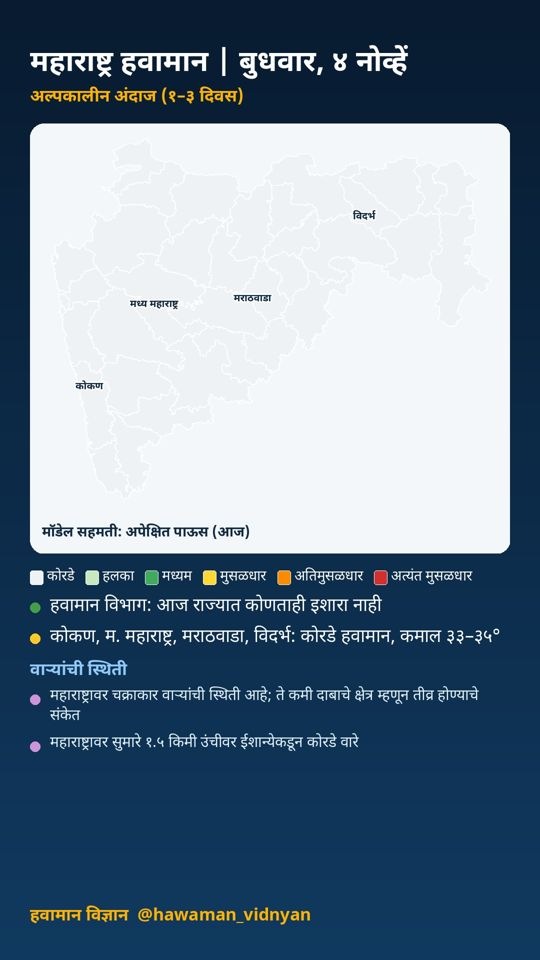
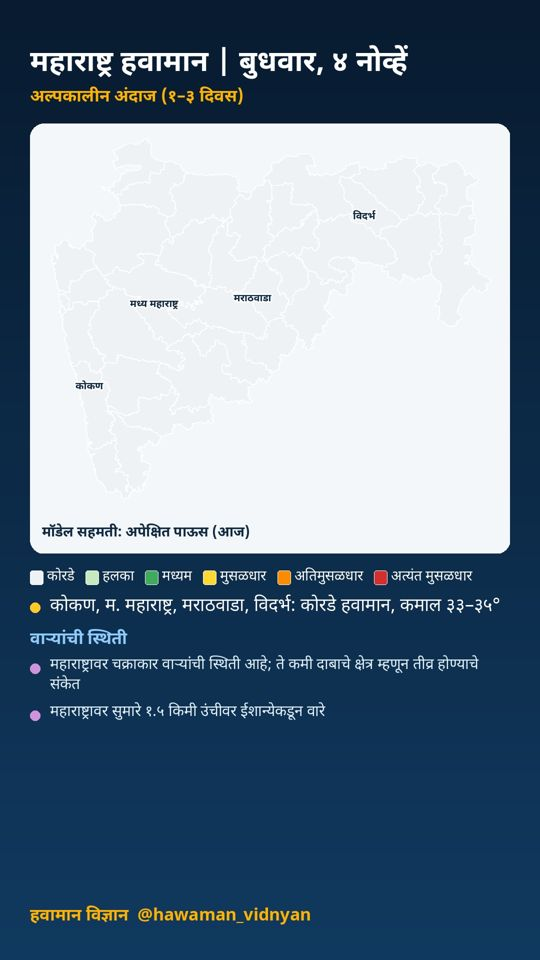
Alert 2026-11-04 (hawaman-vidnyan)

Changed region(s): [[0.0593, 0.5938, 0.9185, 0.7812]]

diff --git a/docs/alerts/2026-11-04-hawaman/index.html b/docs/alerts/2026-11-04-hawaman/index.html
@@ -12,11 +12,11 @@
     })();
   </script>
   <title data-mr="महाराष्ट्र हवामान | बुधवार, ४ नोव्हें — हवामान इशारा">महाराष्ट्र हवामान | बुधवार, ४ नोव्हें — Weather alert</title>
-  <meta name="description" content="Green alert: महाराष्ट्र हवामान | बुधवार, ४ नोव्हें (4 November 2026)">
+  <meta name="description" content="Information analysis: महाराष्ट्र हवामान | बुधवार, ४ नोव्हें (4 November 2026)">
   <link rel="preconnect" href="https://fonts.googleapis.com">
   <link rel="preconnect" href="https://fonts.gstatic.com" crossorigin>
   <link href="https://fonts.googleapis.com/css2?family=Mukta:wght@400;500;600;700&family=Noto+Serif+Devanagari:wght@600;700&display=swap" rel="stylesheet">
-  <link rel="stylesheet" href="../../static/css/style.css?v=357c6d3d">
+  <link rel="stylesheet" href="../../static/css/style.css?v=7264bac0">
 </head>
 <body>
   <header class="site-header">
@@ -45,8 +45,8 @@
   <main class="wrap main">
 <article class="article">
   <p class="muted"><a href="../../alerts/index.html"><span class="l-en">← All alerts</span><span class="l-mr" lang="mr">← सर्व इशारे</span></a></p>
-  <div class="alert-banner level-green">
-    <span class="badge badge-green"><span class="l-en">Green alert · No warning</span><span class="l-mr" lang="mr">हिरवा इशारा · कोणताही इशारा नाही</span></span>
+  <div class="alert-banner level-info">
+    <span class="badge badge-info"><span class="l-en">Information · analysis</span><span class="l-mr" lang="mr">माहितीपर विश्लेषण</span></span>
     <h1>महाराष्ट्र हवामान | बुधवार, ४ नोव्हें</h1>
     <dl class="alert-facts">
       <div><dt><span class="l-en">Date</span><span class="l-mr" lang="mr">दिनांक</span></dt><dd><time datetime="2026-11-04"><span class="l-en">Wednesday, 4 November 2026</span><span class="l-mr" lang="mr">बुधवार, ४ नोव्हेंबर २०२६</span></time></dd></div>
@@ -100,35 +100,31 @@
     </div>
 </details>  </section>
   <p class="lang-note l-en">This page is written in Marathi.</p><div class="prose" lang="mr"><p><strong>अल्पकालीन विश्लेषण (१–३ दिवस)</strong> · वैयक्तिक विश्लेषणावर आधारित</p>
-<p>✅ हवामान विभाग: आज राज्यात कोणताही इशारा नाही<br />
-☀ कोकण: कोरडे हवामान<br />
+<p>☀ कोकण: कोरडे हवामान<br />
 ☀ म. महाराष्ट्र: कोरडे हवामान<br />
 ☀ मराठवाडा: कोरडे हवामान<br />
 ☀ विदर्भ: कोरडे हवामान<br />
-🌀 महाराष्ट्रावर चक्राकार वाऱ्यांची स्थिती आहे</p>
+🌀 महाराष्ट्रावर चक्राकार वाऱ्यांची स्थिती आहे<br />
+🛰 उपग्रह: राज्यावर आकाश बहुतांश निरभ्र</p>
 <p><img src="../../static/images/alerts/2026-11-04/1_card.jpg" alt="अल्पकालीन विश्लेषण (१–३ दिवस)" /></p>
 <h3>हवामानामागचे कारण</h3>
 <p>🌀 वाऱ्यांची स्थिती व कारणमीमांसा:<br />
 • महाराष्ट्रावर चक्राकार वाऱ्यांची स्थिती आहे; ते कमी दाबाचे क्षेत्र म्हणून तीव्र होण्याचे संकेत. या प्रणालीमुळे राज्यात ढगाळ हवामान व पावसाची शक्यता वाढू शकते</p>
-<p>• आग्नेय अरबी समुद्रात ४ नोव्हें दरम्यान कमी दाबाचे क्षेत्र तयार होण्याचे संकेत; प्रणाली ईशान्येकडे (पूर्व-मध्य अरबी समुद्र) सरकण्याची शक्यता<br />
+<p>• आग्नेय अरबी समुद्रात चक्राकार वाऱ्यांची स्थिती आहे; ते कमी दाबाचे क्षेत्र म्हणून तीव्र होण्याचे संकेत; प्रणाली ईशान्येकडे (पूर्व-मध्य अरबी समुद्र) सरकण्याची शक्यता<br />
 • ईशान्य अरबी समुद्रात ६ नोव्हें दरम्यान चक्राकार वाऱ्यांची स्थिती निर्माण होण्याचे संकेत</p>
-<p>• महाराष्ट्रावर सुमारे १.५ किमी उंचीवर ईशान्येकडून कोरडे वारे; हवेच्या मधल्या थरात आर्द्रता फक्त ४२% असल्याने ढग फारसे तयार होत नाहीत<br />
+<p>• महाराष्ट्रावर सुमारे १.५ किमी उंचीवर ईशान्येकडून वारे<br />
 • पुढील काळात हवेच्या मधल्या थरातील बाष्प कमी होत आहे</p>
-<p>🏙 आज शहरांचे कमाल/किमान तापमान (हवामान विभाग):<br />
-मुंबई ३६/२३, रत्नागिरी ३६/२३, पुणे ३१/२०, नाशिक ३५/२०, कोल्हापूर ३३/२३, छ. ३३/२१, नागपूर ३३/१८</p>
 <p>📌 निरीक्षणे:<br />
-🌡 काल सर्वाधिक: मुंबई (कुलाबा) ३६.५°<br />
-❄ नीचांकी: महाबळेश्वर १७.४°<br />
-🛰 उपग्रह: राज्यावर आकाश बहुतांश निरभ्र (कोकण २%, मध्य महाराष्ट्र १%, मराठवाडा ०%, विदर्भ ११% ढगाच्छादन)</p>
+🛰 उपग्रह: राज्यावर आकाश बहुतांश निरभ्र (कोकण २%, मध्य महाराष्ट्र १%, मराठवाडा ०%, विदर्भ १०% ढगाच्छादन)</p>
 <p>ℹ स्रोत: भारतीय हवामान विभाग; युरोपियन (ECMWF), अमेरिकन (GFS), जर्मन (ICON) मॉडेल<br />
 ⚠ हे मॉडेल-आधारित विश्लेषण आहे. अधिकृत इशाऱ्यांसाठी भारतीय हवामान विभाग (IMD) व स्थानिक प्रशासनाच्या सूचना पाहा.</p>
 <p><img src="../../static/images/alerts/2026-11-04/2_circulation_chart.jpg" alt="वाऱ्यांची स्थिती व दाब प्रणाली" /></p>
 <p><img src="../../static/images/alerts/2026-11-04/3_satellite_insat.jpg" alt="वाऱ्यांची स्थिती व दाब प्रणाली" /></p>
 <h2>सविस्तर हवामान विश्लेषण</h2>
 <h3>अल्पकालीन विश्लेषण (१–३ दिवस)</h3>
-<p>नमस्कार! आज बुधवार, ४ नोव्हेंबर. पाहूया महाराष्ट्राचे हवामान विश्लेषण. हवामान विभागाने आज राज्यात कोणताही इशारा दिलेला नाही. कोकण: कोरडे हवामान. कमाल तापमान सुमारे ३५ आणि किमान २३ अंश सेल्सिअस. मध्य महाराष्ट्र: कोरडे हवामान. कमाल तापमान सुमारे ३४ आणि किमान २० अंश सेल्सिअस. मराठवाडा: कोरडे हवामान. कमाल तापमान सुमारे ३३ आणि किमान २० अंश सेल्सिअस. विदर्भ: कोरडे हवामान. कमाल तापमान सुमारे ३३ आणि किमान २१ अंश सेल्सिअस. काल राज्यातील सर्वाधिक तापमान मुंबई (कुलाबा) येथे ३६.५ अंश (सरासरीपेक्षा २.२° जास्त) नोंदले गेले. आता पाहूया हवामानामागचे कारण, म्हणजेच वाऱ्यांची स्थिती. महाराष्ट्रावर चक्राकार वाऱ्यांची स्थिती आहे; ते कमी दाबाचे क्षेत्र म्हणून तीव्र होण्याचे संकेत. या प्रणालीमुळे राज्यात ढगाळ हवामान व पावसाची शक्यता वाढू शकते. आग्नेय अरबी समुद्रात ४ नोव्हें दरम्यान कमी दाबाचे क्षेत्र तयार होण्याचे संकेत; प्रणाली ईशान्येकडे (पूर्व-मध्य अरबी समुद्र) सरकण्याची शक्यता. ईशान्य अरबी समुद्रात ६ नोव्हें दरम्यान चक्राकार वाऱ्यांची स्थिती निर्माण होण्याचे संकेत. महाराष्ट्रावर सुमारे १.५ किमी उंचीवर ईशान्येकडून कोरडे वारे; हवेच्या मधल्या थरात आर्द्रता फक्त ४२% असल्याने ढग फारसे तयार होत नाहीत. पुढील काळात हवेच्या मधल्या थरातील बाष्प कमी होत आहे.</p>
+<p>नमस्कार! आज बुधवार, ४ नोव्हेंबर. पाहूया महाराष्ट्राचे हवामान विश्लेषण. कोकण: कोरडे हवामान. कमाल तापमान सुमारे ३५ आणि किमान २३ अंश सेल्सिअस. मध्य महाराष्ट्र: कोरडे हवामान. कमाल तापमान सुमारे ३४ आणि किमान २० अंश सेल्सिअस. मराठवाडा: कोरडे हवामान. कमाल तापमान सुमारे ३३ आणि किमान २० अंश सेल्सिअस. विदर्भ: कोरडे हवामान. कमाल तापमान सुमारे ३३ आणि किमान २१ अंश सेल्सिअस. आता पाहूया हवामानामागचे कारण, म्हणजेच वाऱ्यांची स्थिती. महाराष्ट्रावर चक्राकार वाऱ्यांची स्थिती आहे; ते कमी दाबाचे क्षेत्र म्हणून तीव्र होण्याचे संकेत. या प्रणालीमुळे राज्यात ढगाळ हवामान व पावसाची शक्यता वाढू शकते. आग्नेय अरबी समुद्रात चक्राकार वाऱ्यांची स्थिती आहे; ते कमी दाबाचे क्षेत्र म्हणून तीव्र होण्याचे संकेत; प्रणाली ईशान्येकडे (पूर्व-मध्य अरबी समुद्र) सरकण्याची शक्यता. ईशान्य अरबी समुद्रात ६ नोव्हें दरम्यान चक्राकार वाऱ्यांची स्थिती निर्माण होण्याचे संकेत. महाराष्ट्रावर सुमारे १.५ किमी उंचीवर ईशान्येकडून वारे. पुढील काळात हवेच्या मधल्या थरातील बाष्प कमी होत आहे.</p>
 <h3>मध्यम कालावधी विश्लेषण (४–१० दिवस)</h3>
-<p>आता पुढील आठवड्याचा, म्हणजे ७–१३ नोव्हें या काळाचे विश्लेषण. युरोपियन हवामान केंद्राच्या ५१ वेगवेगळ्या संभाव्य मॉडेल-परिणामांवर आधारित. कोकण: मुख्यतः कोरडे. मध्य महाराष्ट्र: मुख्यतः कोरडे. मराठवाडा: मुख्यतः कोरडे. विदर्भ: मुख्यतः कोरडे.  किमान तापमान ३° ने घटेल; पहाटे गारवा वाढेल. या काळातील वाऱ्यांची स्थिती: ईशान्य भारतावर ७ नोव्हें दरम्यान कमी दाबाचे क्षेत्र तयार होण्याचे संकेत; प्रणाली नैऋत्येकडे (पश्चिम-मध्य बंगालचा उपसागर) सरकण्याची शक्यता. महाराष्ट्रावर सुमारे १.५ किमी उंचीवर ईशान्येकडून कोरडे वारे; हवेच्या मधल्या थरात आर्द्रता फक्त १२% असल्याने ढग फारसे तयार होत नाहीत.</p>
+<p>आता पुढील आठवड्याचा, म्हणजे ७–१३ नोव्हें या काळाचे विश्लेषण. युरोपियन हवामान केंद्राच्या ५१ वेगवेगळ्या संभाव्य मॉडेल-परिणामांवर आधारित. कोकण: मुख्यतः कोरडे. मध्य महाराष्ट्र: मुख्यतः कोरडे. मराठवाडा: मुख्यतः कोरडे. विदर्भ: मुख्यतः कोरडे.  किमान तापमान ३° ने घटेल; पहाटे गारवा वाढेल. या काळातील वाऱ्यांची स्थिती: ७ नोव्हें रोजी उत्तर भारतावर असलेली कमी दाबाचे क्षेत्र आग्नेयेकडे (ईशान्य बंगालचा उपसागर) सरकण्याची शक्यता. ईशान्य अरबी समुद्रात १२ नोव्हें दरम्यान चक्राकार वाऱ्यांची स्थिती निर्माण होण्याचे संकेत; प्रणाली पश्चिमेकडे (पश्चिम-मध्य अरबी समुद्र) सरकण्याची शक्यता. नैऋत्य बंगालच्या उपसागरात १० नोव्हें दरम्यान कमी दाबाचे क्षेत्र तयार होण्याचे संकेत. महाराष्ट्रावर सुमारे १.५ किमी उंचीवर ईशान्येकडून कोरडे वारे; हवेच्या मधल्या थरात आर्द्रता फक्त १७% असल्याने ढग फारसे तयार होत नाहीत. पुढील काळात हवेच्या मधल्या थरातील बाष्प कमी होत आहे.</p>
 <h3>विस्तारित विश्लेषण (२–४ आठवडे)</h3>
 <p>आता पुढील तीन आठवड्यांचा विस्तारित विश्लेषण. आठवडा १, ९–१५ नोव्हें: राज्यभर पाऊस सरासरीपेक्षा कमी. तापमान सरासरीपेक्षा १.२ अंश जास्त राहण्याची शक्यता. आठवडा २, १६–२२ नोव्हें: कोकण, म. महाराष्ट्र, मराठवाडा: पाऊस जास्त. तापमान सरासरीपेक्षा १.७ अंश जास्त राहण्याची शक्यता. आठवडा ३, २३–२९ नोव्हें: पाऊस सरासरीइतका. तापमान सरासरीपेक्षा १.५ अंश जास्त राहण्याची शक्यता. वाऱ्यांचा प्रवाह: ११–१८ नोव्हें: महाराष्ट्रावर पूर्वेकडून वारे कायम (५१ पैकी ५१ सदस्य); पूर्व/ईशान्येकडील वारे सहसा कोरडे हवामान आणतात. भारतीय हवामान विभाग व आयआयटीएम पुणे यांचे विस्तारित कालावधी नकाशेही हेच संकेत तपासण्यासाठी पाहा.</p>
 <h3>हंगामी विश्लेषण (१–३ महिने)</h3>

diff --git a/docs/index.html b/docs/index.html
@@ -16,7 +16,7 @@
   <link rel="preconnect" href="https://fonts.googleapis.com">
   <link rel="preconnect" href="https://fonts.gstatic.com" crossorigin>
   <link href="https://fonts.googleapis.com/css2?family=Mukta:wght@400;500;600;700&family=Noto+Serif+Devanagari:wght@600;700&display=swap" rel="stylesheet">
-  <link rel="stylesheet" href="./static/css/style.css?v=357c6d3d">
+  <link rel="stylesheet" href="./static/css/style.css?v=7264bac0">
 </head>
 <body>
   <header class="site-header">
@@ -45,7 +45,7 @@
   <main class="wrap main">
 <section class="hero">
   <div class="hero-photo">
-    <img src="./static/images/profile.jpg?v=357c6d3d" alt="Arvind Pagire" width="200" height="200">
+    <img src="./static/images/profile.jpg?v=7264bac0" alt="Arvind Pagire" width="200" height="200">
   </div>
   <div class="hero-text">
     <p class="eyebrow"><span class="l-en">Meteorologist · AI-based weather prediction · Hybrid modelling</span><span class="l-mr" lang="mr">हवामानशास्त्रज्ञ · AI-आधारित हवामान अंदाज · हायब्रिड मॉडेलिंग</span></p>
@@ -73,9 +73,9 @@
   </div>
   <p class="imd-note"><span class="l-en">Disclaimer: for weather alerts and warnings I follow the India Meteorological Department (IMD). The alert colour and warnings shown here are taken from IMD&#39;s official district-wise warnings; the rest is my own analysis for information only. For official forecasts and warnings, please follow</span><span class="l-mr" lang="mr">अस्वीकरण: हवामान इशाऱ्यांसाठी मी भारतीय हवामान विभागाचे (IMD) अनुसरण करतो. येथे दाखवलेला इशाऱ्याचा रंग व इशारे हे IMD च्या अधिकृत जिल्हानिहाय इशाऱ्यांवरून घेतले आहेत; उर्वरित माहिती हे केवळ माहितीसाठी केलेले माझे वैयक्तिक विश्लेषण आहे. अधिकृत अंदाज व इशाऱ्यांसाठी कृपया</span>
     <a href="https://mausam.imd.gov.in" rel="noopener" target="_blank"><span class="l-en">IMD (mausam.imd.gov.in)</span><span class="l-mr" lang="mr">भारतीय हवामान विभागाचे (mausam.imd.gov.in)</span></a><span class="l-en">.</span><span class="l-mr" lang="mr"> अनुसरण करा.</span></p>
-    <article class="alert-card level-green">
+    <article class="alert-card level-info">
   <div class="alert-card-top">
-    <span class="badge badge-green"><span class="l-en">Green alert · No warning</span><span class="l-mr" lang="mr">हिरवा इशारा · कोणताही इशारा नाही</span></span>
+    <span class="badge badge-info"><span class="l-en">Information · analysis</span><span class="l-mr" lang="mr">माहितीपर विश्लेषण</span></span>
     <time datetime="2026-11-04" class="muted"><span class="l-en">Wednesday, 4 November 2026</span><span class="l-mr" lang="mr">बुधवार, ४ नोव्हेंबर २०२६</span></time>
   </div>
   <h3><a href="./alerts/2026-11-04-hawaman/index.html">महाराष्ट्र हवामान | बुधवार, ४ नोव्हें</a></h3>

diff --git a/docs/alerts/index.html b/docs/alerts/index.html
@@ -16,7 +16,7 @@
   <link rel="preconnect" href="https://fonts.googleapis.com">
   <link rel="preconnect" href="https://fonts.gstatic.com" crossorigin>
   <link href="https://fonts.googleapis.com/css2?family=Mukta:wght@400;500;600;700&family=Noto+Serif+Devanagari:wght@600;700&display=swap" rel="stylesheet">
-  <link rel="stylesheet" href="../static/css/style.css?v=357c6d3d">
+  <link rel="stylesheet" href="../static/css/style.css?v=7264bac0">
 </head>
 <body>
   <header class="site-header">
@@ -72,9 +72,9 @@
 </section>
 
 <div class="stack">
-<article class="alert-card level-green">
+<article class="alert-card level-info">
   <div class="alert-card-top">
-    <span class="badge badge-green"><span class="l-en">Green alert · No warning</span><span class="l-mr" lang="mr">हिरवा इशारा · कोणताही इशारा नाही</span></span>
+    <span class="badge badge-info"><span class="l-en">Information · analysis</span><span class="l-mr" lang="mr">माहितीपर विश्लेषण</span></span>
     <time datetime="2026-11-04" class="muted"><span class="l-en">Wednesday, 4 November 2026</span><span class="l-mr" lang="mr">बुधवार, ४ नोव्हेंबर २०२६</span></time>
   </div>
   <h3><a href="../alerts/2026-11-04-hawaman/index.html">महाराष्ट्र हवामान | बुधवार, ४ नोव्हें</a></h3>

diff --git a/docs/alerts/2026-10-25-hawaman/index.html b/docs/alerts/2026-10-25-hawaman/index.html
@@ -16,7 +16,7 @@
   <link rel="preconnect" href="https://fonts.googleapis.com">
   <link rel="preconnect" href="https://fonts.gstatic.com" crossorigin>
   <link href="https://fonts.googleapis.com/css2?family=Mukta:wght@400;500;600;700&family=Noto+Serif+Devanagari:wght@600;700&display=swap" rel="stylesheet">
-  <link rel="stylesheet" href="../../static/css/style.css?v=357c6d3d">
+  <link rel="stylesheet" href="../../static/css/style.css?v=7264bac0">
 </head>
 <body>
   <header class="site-header">

diff --git a/docs/alerts/2026-10-26-hawaman/index.html b/docs/alerts/2026-10-26-hawaman/index.html
@@ -16,7 +16,7 @@
   <link rel="preconnect" href="https://fonts.googleapis.com">
   <link rel="preconnect" href="https://fonts.gstatic.com" crossorigin>
   <link href="https://fonts.googleapis.com/css2?family=Mukta:wght@400;500;600;700&family=Noto+Serif+Devanagari:wght@600;700&display=swap" rel="stylesheet">
-  <link rel="stylesheet" href="../../static/css/style.css?v=357c6d3d">
+  <link rel="stylesheet" href="../../static/css/style.css?v=7264bac0">
 </head>
 <body>
   <header class="site-header">

diff --git a/docs/alerts/2026-10-27-hawaman/index.html b/docs/alerts/2026-10-27-hawaman/index.html
@@ -16,7 +16,7 @@
   <link rel="preconnect" href="https://fonts.googleapis.com">
   <link rel="preconnect" href="https://fonts.gstatic.com" crossorigin>
   <link href="https://fonts.googleapis.com/css2?family=Mukta:wght@400;500;600;700&family=Noto+Serif+Devanagari:wght@600;700&display=swap" rel="stylesheet">
-  <link rel="stylesheet" href="../../static/css/style.css?v=357c6d3d">
+  <link rel="stylesheet" href="../../static/css/style.css?v=7264bac0">
 </head>
 <body>
   <header class="site-header">

diff --git a/docs/alerts/2026-10-28-hawaman/index.html b/docs/alerts/2026-10-28-hawaman/index.html
@@ -16,7 +16,7 @@
   <link rel="preconnect" href="https://fonts.googleapis.com">
   <link rel="preconnect" href="https://fonts.gstatic.com" crossorigin>
   <link href="https://fonts.googleapis.com/css2?family=Mukta:wght@400;500;600;700&family=Noto+Serif+Devanagari:wght@600;700&display=swap" rel="stylesheet">
-  <link rel="stylesheet" href="../../static/css/style.css?v=357c6d3d">
+  <link rel="stylesheet" href="../../static/css/style.css?v=7264bac0">
 </head>
 <body>
   <header class="site-header">

diff --git a/docs/alerts/2026-10-29-hawaman/index.html b/docs/alerts/2026-10-29-hawaman/index.html
@@ -16,7 +16,7 @@
   <link rel="preconnect" href="https://fonts.googleapis.com">
   <link rel="preconnect" href="https://fonts.gstatic.com" crossorigin>
   <link href="https://fonts.googleapis.com/css2?family=Mukta:wght@400;500;600;700&family=Noto+Serif+Devanagari:wght@600;700&display=swap" rel="stylesheet">
-  <link rel="stylesheet" href="../../static/css/style.css?v=357c6d3d">
+  <link rel="stylesheet" href="../../static/css/style.css?v=7264bac0">
 </head>
 <body>
   <header class="site-header">

diff --git a/docs/alerts/2026-10-30-hawaman/index.html b/docs/alerts/2026-10-30-hawaman/index.html
@@ -16,7 +16,7 @@
   <link rel="preconnect" href="https://fonts.googleapis.com">
   <link rel="preconnect" href="https://fonts.gstatic.com" crossorigin>
   <link href="https://fonts.googleapis.com/css2?family=Mukta:wght@400;500;600;700&family=Noto+Serif+Devanagari:wght@600;700&display=swap" rel="stylesheet">
-  <link rel="stylesheet" href="../../static/css/style.css?v=357c6d3d">
+  <link rel="stylesheet" href="../../static/css/style.css?v=7264bac0">
 </head>
 <body>
   <header class="site-header">

diff --git a/docs/alerts/2026-10-31-hawaman/index.html b/docs/alerts/2026-10-31-hawaman/index.html
@@ -16,7 +16,7 @@
   <link rel="preconnect" href="https://fonts.googleapis.com">
   <link rel="preconnect" href="https://fonts.gstatic.com" crossorigin>
   <link href="https://fonts.googleapis.com/css2?family=Mukta:wght@400;500;600;700&family=Noto+Serif+Devanagari:wght@600;700&display=swap" rel="stylesheet">
-  <link rel="stylesheet" href="../../static/css/style.css?v=357c6d3d">
+  <link rel="stylesheet" href="../../static/css/style.css?v=7264bac0">
 </head>
 <body>
   <header class="site-header">

diff --git a/docs/alerts/2026-11-01-hawaman/index.html b/docs/alerts/2026-11-01-hawaman/index.html
@@ -16,7 +16,7 @@
   <link rel="preconnect" href="https://fonts.googleapis.com">
   <link rel="preconnect" href="https://fonts.gstatic.com" crossorigin>
   <link href="https://fonts.googleapis.com/css2?family=Mukta:wght@400;500;600;700&family=Noto+Serif+Devanagari:wght@600;700&display=swap" rel="stylesheet">
-  <link rel="stylesheet" href="../../static/css/style.css?v=357c6d3d">
+  <link rel="stylesheet" href="../../static/css/style.css?v=7264bac0">
 </head>
 <body>
   <header class="site-header">

diff --git a/docs/alerts/2026-11-02-hawaman/index.html b/docs/alerts/2026-11-02-hawaman/index.html
@@ -16,7 +16,7 @@
   <link rel="preconnect" href="https://fonts.googleapis.com">
   <link rel="preconnect" href="https://fonts.gstatic.com" crossorigin>
   <link href="https://fonts.googleapis.com/css2?family=Mukta:wght@400;500;600;700&family=Noto+Serif+Devanagari:wght@600;700&display=swap" rel="stylesheet">
-  <link rel="stylesheet" href="../../static/css/style.css?v=357c6d3d">
+  <link rel="stylesheet" href="../../static/css/style.css?v=7264bac0">
 </head>
 <body>
   <header class="site-header">
